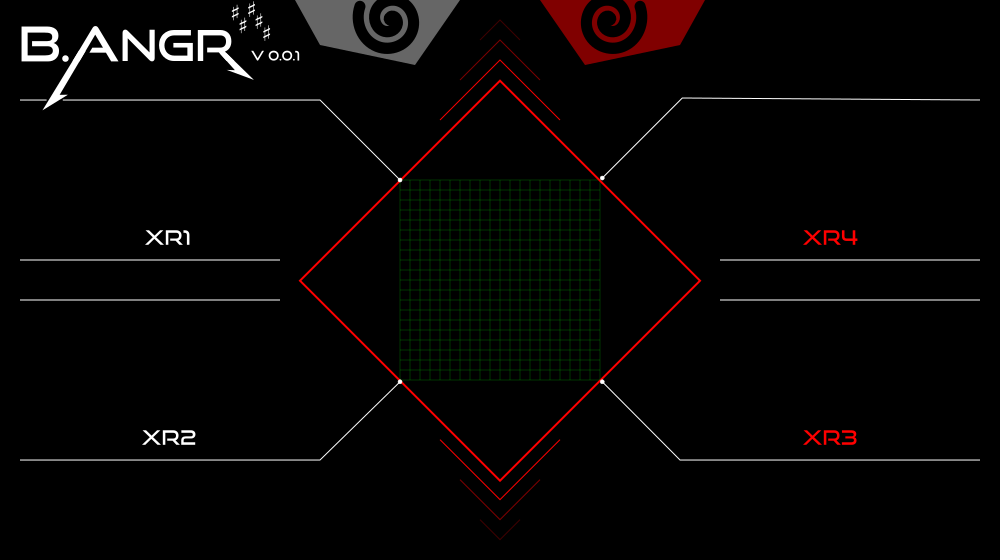
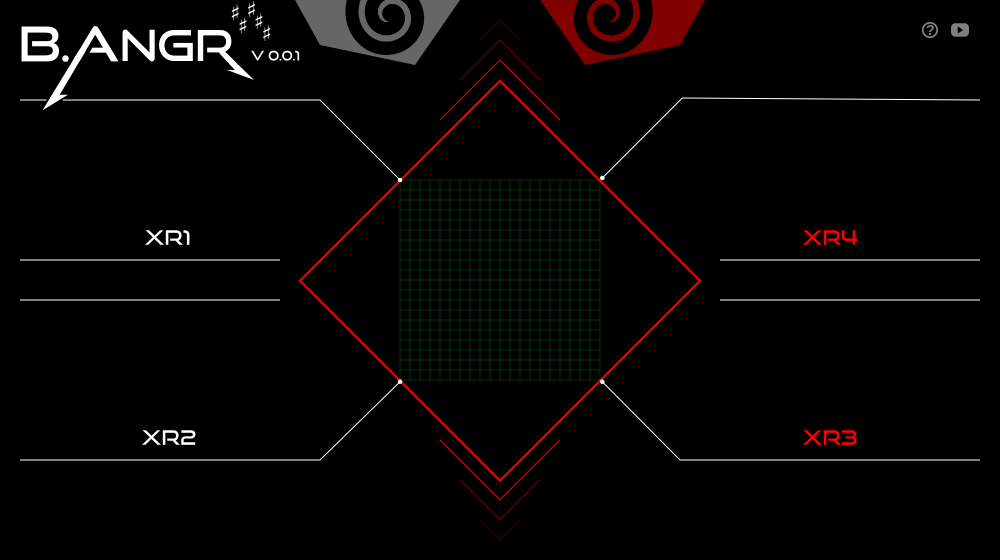
Help & preview video buttons

Changed region(s): [[0.558, 0.0, 0.651, 0.0911], [0.341, 0.0, 0.434, 0.0911], [0.93, 0.0304, 0.992, 0.0607]]

diff --git a/src/HaloButton.hpp b/src/HaloButton.hpp
@@ -1,0 +1,144 @@
+/* B.Oops
+ * Glitch effect sequencer LV2 plugin
+ *
+ * Copyright (C) 2019 by Sven Jähnichen
+ *
+ * This program is free software; you can redistribute it and/or modify
+ * it under the terms of the GNU General Public License as published by
+ * the Free Software Foundation; either version 3, or (at your option)
+ * any later version.
+ *
+ * This program is distributed in the hope that it will be useful,
+ * but WITHOUT ANY WARRANTY; without even the implied warranty of
+ * MERCHANTABILITY or FITNESS FOR A PARTICULAR PURPOSE.  See the
+ * GNU General Public License for more details.
+ *
+ * You should have received a copy of the GNU General Public License
+ * along with this program; if not, write to the Free Software Foundation,
+ * Inc., 59 Temple Place - Suite 330, Boston, MA 02111-1307, USA.
+ */
+
+#ifndef HALOBUTTON_HPP_
+#define HALOBUTTON_HPP_
+
+#include "BWidgets/ValueWidget.hpp"
+#include "BWidgets/Focusable.hpp"
+#include "BWidgets/Label.hpp"
+
+class HaloButton : public BWidgets::ValueWidget, public BWidgets::Focusable
+{
+public:
+	HaloButton () : HaloButton (0, 0, 0, 0, "editwidget", "") {}
+
+	HaloButton (const double x, const double y, const double width, const double height, const std::string& name, const std::string& focusText) :
+		ValueWidget (x, y, width, height, name, 0.0),
+		Focusable (std::chrono::milliseconds (BWIDGETS_DEFAULT_FOCUS_IN_MS),
+			   std::chrono::milliseconds (BWIDGETS_DEFAULT_FOCUS_OUT_MS)),
+		focusLabel_ (0, 0, 40, 20, name_ + BWIDGETS_DEFAULT_FOCUS_NAME, focusText)
+   	{
+   		focusLabel_.setStacking (BWidgets::STACKING_OVERSIZE);
+   		focusLabel_.resize ();
+   		focusLabel_.hide ();
+   		add (focusLabel_);
+   	}
+
+	HaloButton (const HaloButton& that) :
+		ValueWidget (that), Focusable (that),
+		focusLabel_ (that.focusLabel_)
+	{
+		focusLabel_.hide();
+		add (focusLabel_);
+	}
+
+	HaloButton& operator= (const HaloButton& that)
+	{
+		release (&focusLabel_);
+		focusLabel_ = that.focusLabel_;
+		focusLabel_.hide();
+
+		Widget::operator= (that);
+		Focusable::operator= (that);
+
+		add (focusLabel_);
+
+		return *this;
+
+	}
+
+	virtual BWidgets::Widget* clone () const override {return new HaloButton (*this);}
+
+	virtual void applyTheme (BStyles::Theme& theme) override {applyTheme (theme, name_);}
+
+	virtual void applyTheme (BStyles::Theme& theme, const std::string& name) override
+	{
+		Widget::applyTheme (theme, name);
+		focusLabel_.applyTheme (theme, name + BWIDGETS_DEFAULT_FOCUS_NAME);
+		focusLabel_.resize();
+	}
+
+	virtual void onButtonPressed (BEvents::PointerEvent* event) override
+	{
+		setValue (1.0);
+		Widget::cbfunction_[BEvents::EventType::BUTTON_PRESS_EVENT] (event);
+	}
+
+	virtual void onButtonReleased (BEvents::PointerEvent* event) override
+	{
+		setValue (0.0);
+		Widget::cbfunction_[BEvents::EventType::BUTTON_RELEASE_EVENT] (event);
+	}
+
+	virtual void onFocusIn (BEvents::FocusEvent* event) override
+	{
+		if (event && event->getWidget())
+		{
+			BUtilities::Point pos = event->getPosition();
+			focusLabel_.moveTo (pos.x - 0.5 * focusLabel_.getWidth(), pos.y - focusLabel_.getHeight());
+			focusLabel_.show();
+		}
+		Widget::onFocusIn (event);
+	}
+
+	virtual void onFocusOut (BEvents::FocusEvent* event) override
+	{
+		if (event && event->getWidget()) focusLabel_.hide();
+		Widget::onFocusOut (event);
+	}
+
+protected:
+	BWidgets::Label focusLabel_;
+
+	virtual void draw (const BUtilities::RectArea& area) override
+	{
+		if ((!widgetSurface_) || (cairo_surface_status (widgetSurface_) != CAIRO_STATUS_SUCCESS)) return;
+
+		if ((getWidth () >= 1) && (getHeight () >= 1))
+		{
+			// Draw super class widget elements first
+			Widget::draw (area);
+
+			if (value == 1.0)
+			{
+				cairo_t* cr = cairo_create (widgetSurface_);
+				if (cairo_status (cr) == CAIRO_STATUS_SUCCESS)
+				{
+					// Limit cairo-drawing area
+					cairo_rectangle (cr, area.getX (), area.getY (), area.getWidth (), area.getHeight ());
+					cairo_clip (cr);
+
+					double x0 = getXOffset ();
+					double y0 = getYOffset ();
+					double w = getEffectiveWidth ();
+					double h = getEffectiveHeight ();
+					cairo_rectangle (cr, x0, y0, w, h);
+					cairo_set_line_width (cr, 1.0);
+					cairo_set_source_rgba (cr, CAIRO_RGBA (BColors::white));
+					cairo_stroke (cr);
+					cairo_destroy (cr);
+				}
+			}
+		}
+	}
+};
+
+#endif /* HALOBUTTON_HPP_ */

diff --git a/src/BAngrGUI.cpp b/src/BAngrGUI.cpp
@@ -36,6 +36,8 @@ BAngrGUI::BAngrGUI (const char *bundle_path, const LV2_Feature *const *features,
 	mContainer (0, 0, 1000, 560, "main"),
 	cursor (480, 260, 40, 40, "dot"),
 	poweredLabel (720, 540, 280, 20, "label", BANGR_LABEL_POWERED_BY),
+	helpButton (918, 18, 24, 24, "widget", BANGR_LABEL_HELP),
+	ytButton (948, 18, 24, 24, "widget", BANGR_LABEL_VIDEO),
 	speedDial (370, 460, 60, 60, "dial", 0.5, 0.0, 1.0, 0.0, BIDIRECTIONAL, "%1.2f", ""),
 	speedLabel (370, 520, 60, 20, "label", BANGR_LABEL_SPEED),
 	spinDial (570, 460, 60, 60, "dial", 0.0, -1.0, 1.0, 0.0, BIDIRECTIONAL, "%1.2f", ""),
@@ -82,6 +84,8 @@ BAngrGUI::BAngrGUI (const char *bundle_path, const LV2_Feature *const *features,
 	cursor.setCallbackFunction (BEvents::EventType::BUTTON_PRESS_EVENT, BAngrGUI::cursorDraggedCallback);
 	cursor.setCallbackFunction (BEvents::EventType::BUTTON_RELEASE_EVENT, BAngrGUI::cursorReleasedCallback);
 	poweredLabel.setCallbackFunction (BEvents::EventType::BUTTON_PRESS_EVENT, BAngrGUI::xregionClickedCallback);
+	helpButton.setCallbackFunction (BEvents::EventType::BUTTON_PRESS_EVENT, BAngrGUI::helpButtonClickedCallback);
+	ytButton.setCallbackFunction (BEvents::EventType::BUTTON_PRESS_EVENT, BAngrGUI::ytButtonClickedCallback);
 
 	// Load background & apply theme
 	bgImageSurface = cairo_image_surface_create_from_png ((pluginPath + BG_FILE).c_str());
@@ -101,6 +105,8 @@ BAngrGUI::BAngrGUI (const char *bundle_path, const LV2_Feature *const *features,
 	mContainer.add (spinLabel);
 	mContainer.add (cursor);
 	mContainer.add (poweredLabel);
+	mContainer.add (helpButton);
+	mContainer.add (ytButton);
 	add (mContainer);
 
 	//Scan host features for URID map
@@ -185,6 +191,8 @@ void BAngrGUI::resizeGUI()
 	RESIZE (mContainer, 0, 0, 1000, 560, sz);
 	cursor.resize (40.0 * sz, 40.0 * sz);
 	RESIZE (poweredLabel, 720, 540, 280, 20, sz);
+	RESIZE (helpButton, 918, 18, 24, 24, sz);
+	RESIZE (ytButton, 948, 18, 24, 24, sz);
 	RESIZE (speedDial, 370, 460, 60, 60, sz);
 	RESIZE (speedLabel, 370, 520, 60, 20, sz);
 	RESIZE (spinDial, 570, 460, 60, 60, sz);
@@ -217,6 +225,8 @@ void BAngrGUI::applyTheme (BStyles::Theme& theme)
 	mContainer.applyTheme (theme);
 	cursor.applyTheme (theme);
 	poweredLabel.applyTheme (theme);
+	helpButton.applyTheme (theme);
+	ytButton.applyTheme (theme);
 	speedDial.applyTheme (theme);
 	speedLabel.applyTheme (theme);
 	spinDial.applyTheme (theme);
@@ -354,6 +364,24 @@ void BAngrGUI::xregionClickedCallback (BEvents::Event* event)
 	char param[] = XREGION_URL;
 	char* argv[] = {cmd, param, NULL};
 	std::cerr << "BAngr.lv2#GUI: Call " << XREGION_URL << " for Airwindows XRegion.\n";
+	if (BUtilities::vsystem (argv) == -1) std::cerr << "BAngr.lv2#GUI: Couldn't fork.\n";
+}
+
+void BAngrGUI::helpButtonClickedCallback (BEvents::Event* event)
+{
+	char cmd[] = WWW_BROWSER_CMD;
+	char param[] = HELP_URL;
+	char* argv[] = {cmd, param, NULL};
+	std::cerr << "BAngr.lv2#GUI: Call " << HELP_URL << " for help.\n";
+	if (BUtilities::vsystem (argv) == -1) std::cerr << "BAngr.lv2#GUI: Couldn't fork.\n";
+}
+
+void BAngrGUI::ytButtonClickedCallback (BEvents::Event* event)
+{
+	char cmd[] = WWW_BROWSER_CMD;
+	char param[] = YT_URL;
+	char* argv[] = {cmd, param, NULL};
+	std::cerr << "BAngr.lv2#GUI: Call " << YT_URL << " for preview video.\n";
 	if (BUtilities::vsystem (argv) == -1) std::cerr << "BAngr.lv2#GUI: Couldn't fork.\n";
 }
 

diff --git a/src/BAngrGUI.hpp b/src/BAngrGUI.hpp
@@ -31,6 +31,7 @@
 #include "Dial.hpp"
 #include "DialRange.hpp"
 #include "Dot.hpp"
+#include "HaloButton.hpp"
 #include "Definitions.hpp"
 #include "Ports.hpp"
 #include "Urids.hpp"
@@ -56,6 +57,8 @@
 #endif
 
 #define XREGION_URL "http://www.airwindows.com/xregion/"
+#define HELP_URL "https://github.com/sjaehn/BAngr/blob/master/README.md"
+#define YT_URL "https://www.youtube.com/watch?v=-kWy_1UYazo"
 #define RESIZE(widget, x, y, w, h, sz) (widget).moveTo ((x) * (sz), (y) * (sz)); (widget).resize ((w) * (sz), (h) * (sz));
 
 class BAngrGUI : public BWidgets::Window
@@ -81,6 +84,8 @@ private:
 	static void cursorDraggedCallback (BEvents::Event* event);
 	static void cursorReleasedCallback (BEvents::Event* event);
 	static void xregionClickedCallback (BEvents::Event* event);
+	static void helpButtonClickedCallback (BEvents::Event* event);
+	static void ytButtonClickedCallback (BEvents::Event* event);
 
 	std::string pluginPath;
 	double sz;
@@ -94,6 +99,8 @@ private:
 	BWidgets::Widget mContainer;
 	Dot cursor;
 	BWidgets::Label poweredLabel;
+	HaloButton helpButton;
+	HaloButton ytButton;
 	DialRange speedDial;
 	BWidgets::Label speedLabel;
 	DialRange spinDial;
@@ -137,7 +144,7 @@ private:
 
 	BStyles::StyleSet focusStyles = {"labels", {{"background", STYLEPTR (&screenBg)},
 					{"border", STYLEPTR (&BStyles::noBorder)},
-					{"textcolors", STYLEPTR (&fgColors)},
+					{"textcolors", STYLEPTR (&txColors)},
 					{"font", STYLEPTR (&defaultFont)}}};
 
 	BStyles::Theme theme = BStyles::Theme 
@@ -148,6 +155,7 @@ private:
 		{"main", 		{{"background", STYLEPTR (&widgetBg)},
 				 		 {"border", STYLEPTR (&BStyles::noBorder)}}},
 		{"widget", 		{{"uses", STYLEPTR (&defaultStyles)}}},
+		{"widget/focus",{{"uses", STYLEPTR (&focusStyles)}}},
 		{"dial", 		{{"uses", STYLEPTR (&defaultStyles)},
 						 {"fgcolors", STYLEPTR (&fgColors)},
 						 {"bgcolors", STYLEPTR (&bgColors)},

diff --git a/src/Locale_EN.hpp b/src/Locale_EN.hpp
@@ -7,3 +7,5 @@
 #define BANGR_LABEL_SPEED "Speed"
 #define BANGR_LABEL_SPIN "Spin"
 #define BANGR_LABEL_POWERED_BY "Powered by Airwindows XRegion"
+#define BANGR_LABEL_HELP "Help"
+#define BANGR_LABEL_VIDEO "Preview"
